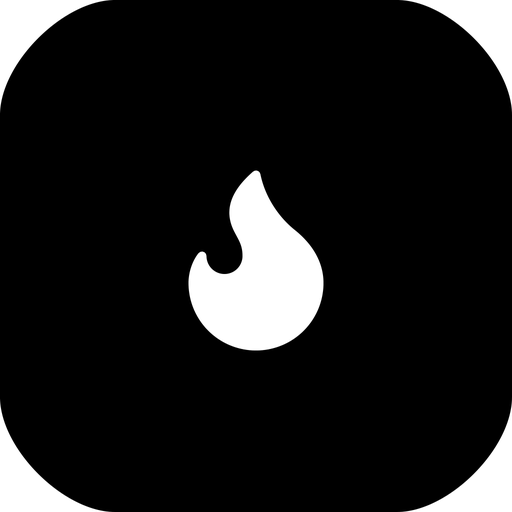
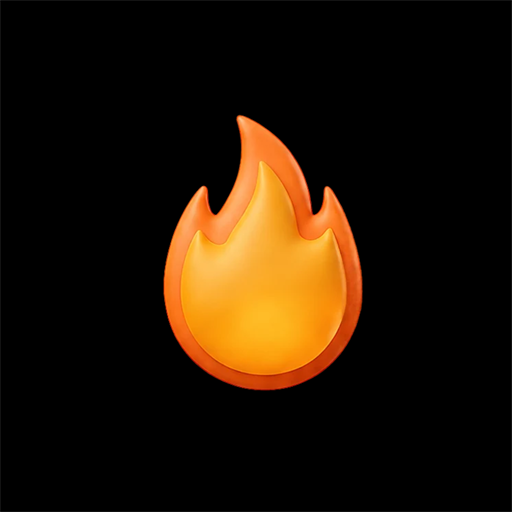
feat(branding): atualizacao da logomarca oficial no topo do app, icones do celular/android e mascote fixo chaminha nos jogos

diff --git a/frontend/src/App.jsx b/frontend/src/App.jsx
@@ -66,6 +66,25 @@ function RewardPopup({ amount, title, message, onClose }) {
   );
 }
 
+// ═══ COMPONENTE CHAMINHA FIXO (MASCOTE OFICIAL) ═══
+function ChaminhaFixo({ size = 80, style = {}, className = '' }) {
+  return (
+    <img 
+      src="/mascote-chaminha.png" 
+      alt="Mascote Chaminha" 
+      className={className}
+      style={{
+        width: `${size}px`,
+        height: `${size}px`,
+        objectFit: 'contain',
+        display: 'inline-block',
+        filter: 'drop-shadow(0 6px 16px rgba(249, 115, 22, 0.3))',
+        ...style
+      }} 
+    />
+  );
+}
+
 // ═══ COMPONENTE CHAMINHA COIN ═══
 
 // ═══ COMPONENTE CHAMINHA VIDEO (MASCOTE 3D) ═══
@@ -2347,10 +2366,21 @@ Em nome de Jesus, Amém.`;
               )}
             </div>
 
-            {/* Centro: Título do App */}
-            <h1 style={{ fontSize: '1.25rem', fontWeight: '800', margin: 0, color: 'var(--text-primary)' }}>
-              1Convite
-            </h1>
+            {/* Centro: Logomarca Oficial do App */}
+            <div style={{ display: 'flex', alignItems: 'center', justifyContent: 'center' }}>
+              <img 
+                src="/LOGOMARCA.png" 
+                alt="1Convite" 
+                style={{ 
+                  height: '38px', 
+                  maxWidth: '160px',
+                  objectFit: 'contain',
+                  cursor: 'pointer',
+                  filter: darkMode ? 'drop-shadow(0 2px 8px rgba(249, 115, 22, 0.25))' : 'none'
+                }} 
+                onClick={() => setActiveTab('dashboard')}
+              />
+            </div>
 
 
 {/* Direita: Diamante / Vouchers Premium */}
@@ -6543,7 +6573,8 @@ Em nome de Jesus, Amém.`;
 
             {/* ════════════ TELA DE DIFICULDADE (ALTO CONTRASTE) ════════════ */}
             {arcadeActiveGame === 'difficulty' && (
-              <div style={{ display: 'flex', flexDirection: 'column', alignItems: 'center', justifyContent: 'center', minHeight: '60vh', gap: '24px', padding: '20px 10px' }}>
+              <div style={{ display: 'flex', flexDirection: 'column', alignItems: 'center', justifyContent: 'center', minHeight: '60vh', gap: '20px', padding: '20px 10px' }}>
+                <ChaminhaFixo size={110} style={{ animation: 'bounceChaminha 1s infinite alternate ease-in-out' }} />
                 <div style={{ textAlign: 'center' }}>
                   <h2 style={{ color: 'var(--orange)', fontSize: '1.6rem', fontWeight: 800, margin: '0 0 6px' }}>Selecione o Nível</h2>
                   <p style={{ margin: 0, fontSize: '0.95rem', color: 'var(--text-secondary)' }}>
@@ -6551,6 +6582,7 @@ Em nome de Jesus, Amém.`;
                     {arcadeSelectedGame === 'quiz' && 'Responda no tempo e acumule Chaminhas!'}
                     {arcadeSelectedGame === 'forca' && 'Adivinhe as letras sem errar o boneco!'}
                     {arcadeSelectedGame === 'cacapalavras' && 'Procure os termos sagrados na grade!'}
+                    {arcadeSelectedGame === 'memoria' && 'Encontre os pares sagrados da Arca de Noé!'}
                   </p>
                 </div>
 
@@ -6721,9 +6753,9 @@ Em nome de Jesus, Amém.`;
 
               if (arcadeQuizGameOver) {
                 return (
-                  <div style={{ textAlign: 'center', paddingTop: '40px' }}>
-                    <div style={{ width: '80px', height: '80px', borderRadius: '50%', background: 'rgba(249,115,22,0.15)', display: 'inline-flex', alignItems: 'center', justifyContent: 'center', marginBottom: '16px', color: 'var(--orange)' }}>
-                      <svg width="42" height="42" viewBox="0 0 24 24" fill="none" stroke="currentColor" strokeWidth="2"><circle cx="12" cy="8" r="7"/><polyline points="8.21 13.89 7 23 12 20 17 23 15.79 13.88"/></svg>
+                  <div style={{ textAlign: 'center', paddingTop: '30px' }}>
+                    <div style={{ marginBottom: '16px' }}>
+                      <ChaminhaFixo size={120} style={{ animation: 'bounceChaminha 0.8s infinite alternate ease-in-out' }} />
                     </div>
                     <h2 style={{ fontSize: '1.8rem', fontWeight: 800, margin: '0 0 8px', color: 'var(--orange)' }}>Quiz Concluído!</h2>
                     <p style={{ color: 'var(--text-secondary)', fontSize: '1.05rem', marginBottom: '30px' }}>
@@ -6833,9 +6865,9 @@ Em nome de Jesus, Amém.`;
 
               if (arcadeCharadasGameOver) {
                 return (
-                  <div style={{ textAlign: 'center', paddingTop: '40px' }}>
-                    <div style={{ width: '80px', height: '80px', borderRadius: '50%', background: 'rgba(219,39,119,0.15)', display: 'inline-flex', alignItems: 'center', justifyContent: 'center', marginBottom: '16px', color: '#db2777' }}>
-                      <svg width="42" height="42" viewBox="0 0 24 24" fill="none" stroke="currentColor" strokeWidth="2"><path d="M17 21v-2a4 4 0 0 0-4-4H5a4 4 0 0 0-4 4v2" /><circle cx="9" cy="7" r="4" /></svg>
+                  <div style={{ textAlign: 'center', paddingTop: '30px' }}>
+                    <div style={{ marginBottom: '16px' }}>
+                      <ChaminhaFixo size={120} style={{ animation: 'bounceChaminha 0.8s infinite alternate ease-in-out' }} />
                     </div>
                     <h2 style={{ fontSize: '1.8rem', fontWeight: 800, margin: '0 0 8px', color: 'var(--orange)' }}>Parabéns!</h2>
                     <p style={{ color: 'var(--text-secondary)', fontSize: '1.05rem', marginBottom: '30px' }}>
